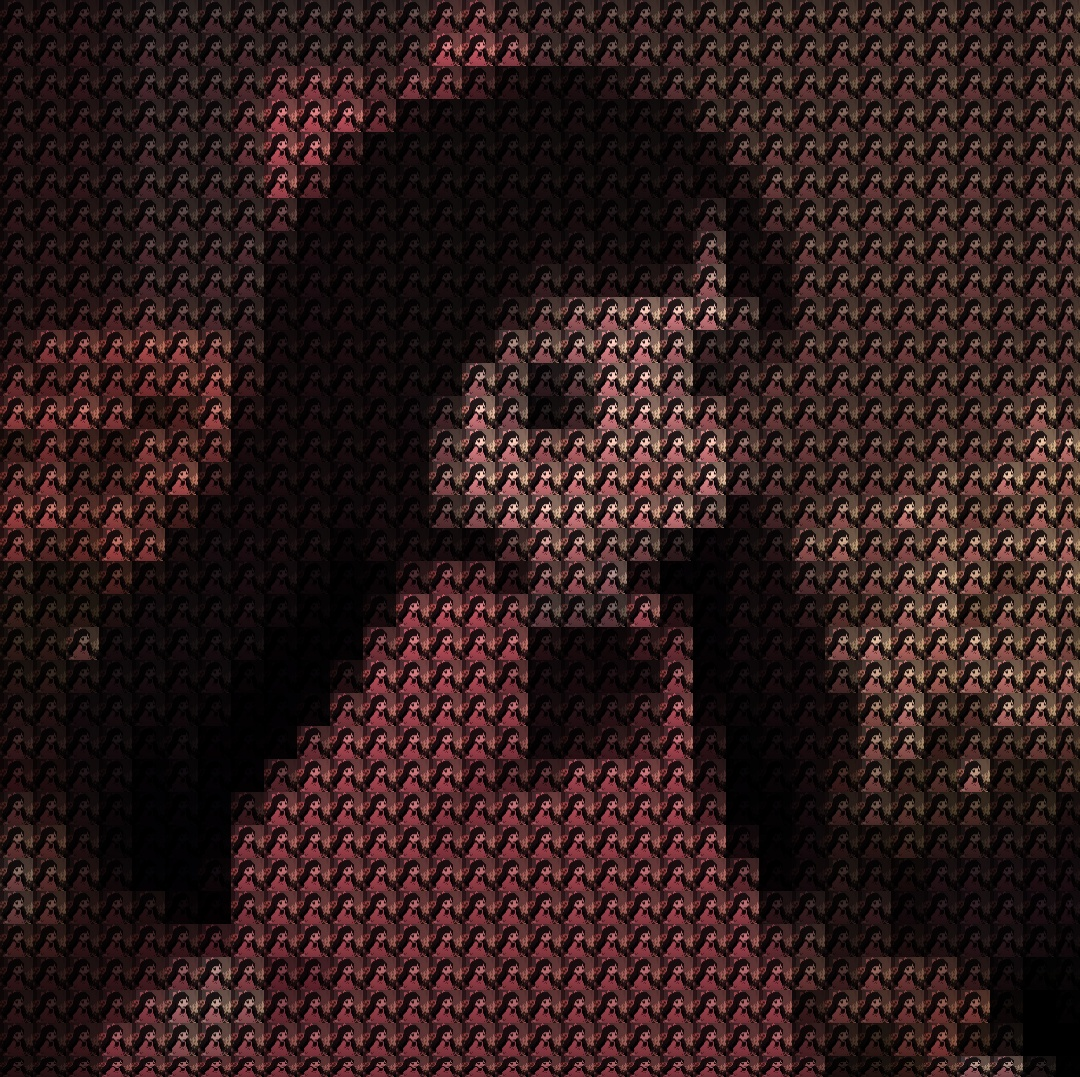
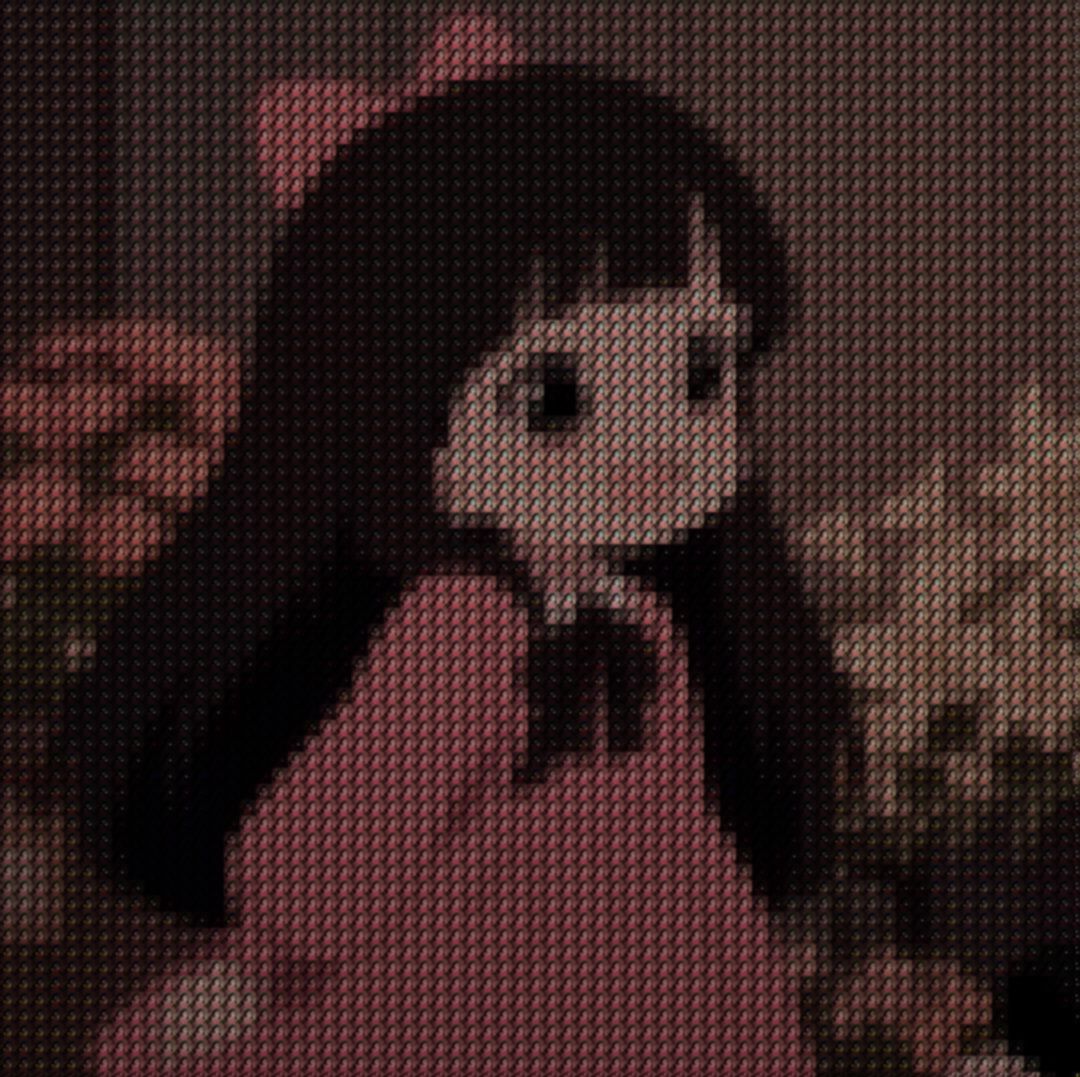
Funciona correctamente

diff --git a/FiltrosRecursivos/filtros.py b/FiltrosRecursivos/filtros.py
@@ -1,19 +1,19 @@
 import numpy as np
 import cv2
 
-def resize_image(image, scale):
-    """Tamaño pequeño a escala"""
+def resize_image(image, scale, interpolation=cv2.INTER_LANCZOS4):
+    
     width = int(image.shape[1] * scale)
     height = int(image.shape[0] * scale)
-    resized = cv2.resize(image, (width, height), interpolation=cv2.INTER_LINEAR)
+    resized = cv2.resize(image, (width, height), interpolation=interpolation)
     return resized
 
 def compute_average_color(image):
-    """Calcula el color promedio de la region dada"""
+    """Calcula el color promedio"""
     return np.mean(image, axis=(0, 1))
 
 def recursive_image(image, num_steps, grayscale=False):
-    """Genera una imagen recursiva a partir de la imagen dada"""
+    """Genera una imagen recursiva a partir de la imagen dada."""
     height, width, _ = image.shape
     step_size = width // (2 ** num_steps)
 
@@ -24,44 +24,47 @@ def recursive_image(image, num_steps, grayscale=False):
             region = image[y:y+step_size, x:x+step_size]
             avg_color = compute_average_color(region)
             
-            # Si es gris, calculamos el tono promedio y convertimos a un tono de gris
+            # Si es gris, ajustamos el tono
             if grayscale:
                 avg_gray = np.mean(avg_color)
-                avg_color = np.array([avg_gray] * 3)  # Convertimos a escala de grises
+                avg_color = np.array([avg_gray] * 3)
 
-            #ajustamos el tono
+            # Redimensionamos la imagen y ajustamos el tono
             scale = step_size / width
             resized_img = resize_image(image, scale)
             resized_img = resized_img.astype(np.float32)
             
             # Aplicamos el color promedio
-            avg_color = np.array(avg_color)  # Convertimos avg_color a array de NumPy
+            avg_color = np.array(avg_color)
             adjusted_img = resized_img * (avg_color / 255.0)
             
-            # Dimensiones de la imagen 
+            # Ddimensiones sean correctas
             y_end = min(y + step_size, height)
             x_end = min(x + step_size, width)
 
-            adjusted_img = cv2.resize(adjusted_img, (x_end-x, y_end-y), interpolation=cv2.INTER_LINEAR)
+            # Redimensionamos adjusted_img para que coincida exactamente con el tamaño de la región
+            adjusted_img = cv2.resize(adjusted_img, (x_end-x, y_end-y), interpolation=cv2.INTER_LANCZOS4)
 
+            # Asignamos la imagen ajustada a la región correspondiente
             recursive_img[y:y_end, x:x_end] = adjusted_img[:y_end-y, :x_end-x]
+
+    recursive_img = cv2.GaussianBlur(recursive_img, (5, 5), 0)
 
     return recursive_img
 
-def apply_grayscale_filter(image_path, num_steps=5):
+def apply_grayscale_filter(image_path, num_steps=6):
     """Aplica un filtro recursivo en tonos de gris a la imagen."""
     img = cv2.imread(image_path)
     gray_img = cv2.cvtColor(img, cv2.COLOR_BGR2GRAY)
     gray_img_color = cv2.cvtColor(gray_img, cv2.COLOR_GRAY2BGR)
 
-    # Generar imagen recursiva en tonos de gris
     recursive_img = recursive_image(gray_img_color, num_steps, grayscale=True)
     
-    # Guardar la imagen recursiva
     cv2.imwrite('recursive_gray_image.jpg', recursive_img)
     return 'recursive_gray_image.jpg'
 
-def apply_color_filter(image_path, num_steps=5):
+def apply_color_filter(image_path, num_steps=6):
+    """Aplica un filtro recursivo a color a la imagen."""
     img = cv2.imread(image_path)
 
     recursive_img = recursive_image(img, num_steps)
